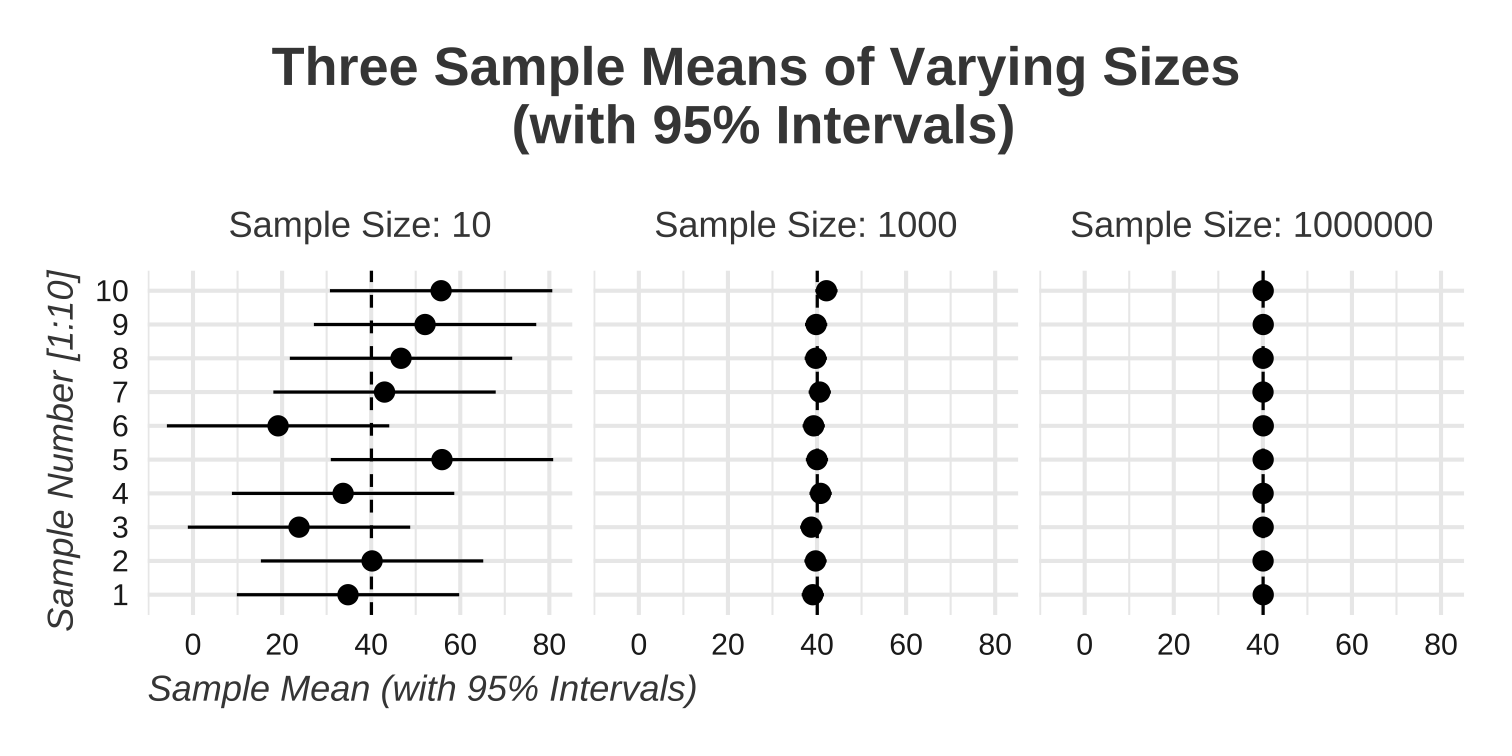
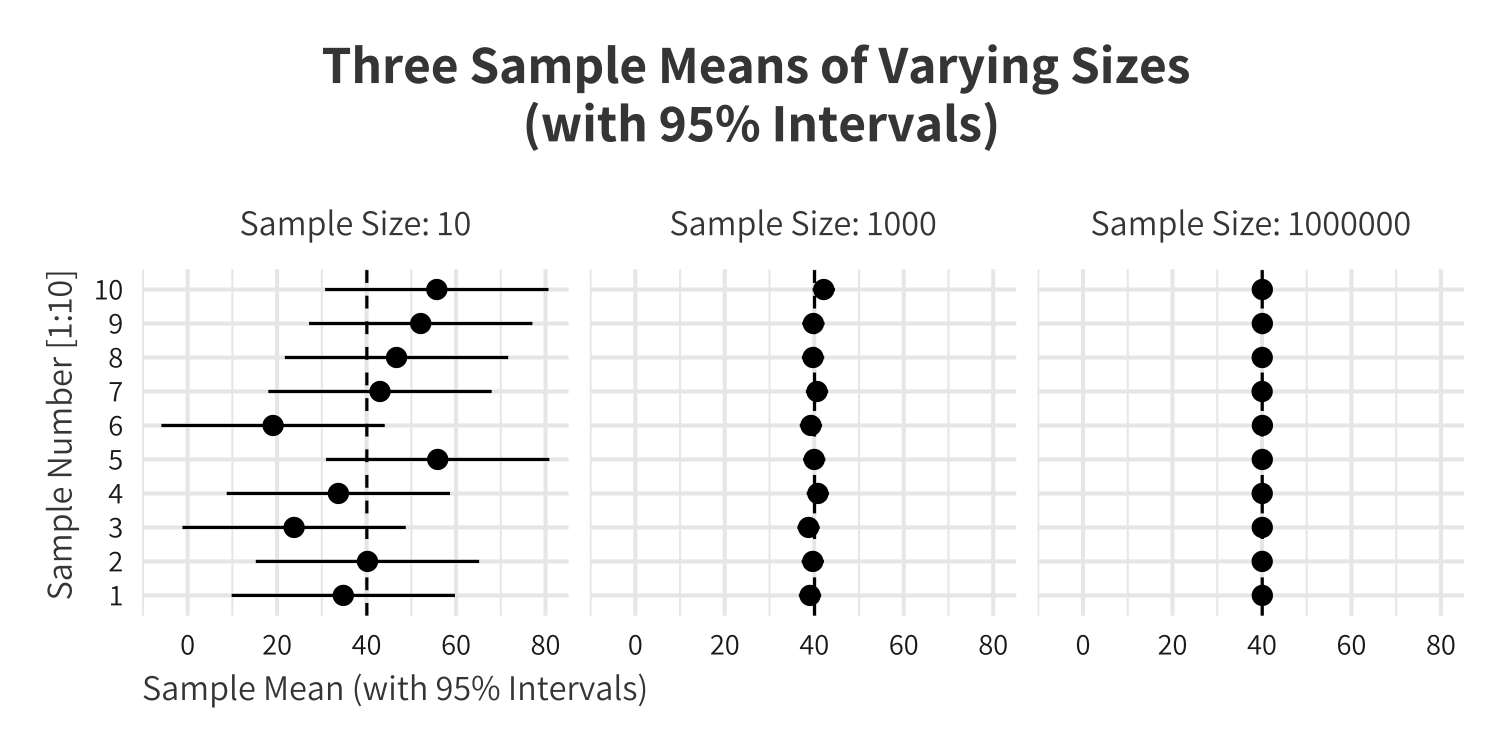
update font families

diff --git a/static/slides/Exam-2-Review/exam-2.html b/static/slides/Exam-2-Review/exam-2.html
@@ -778,6 +778,23 @@ The problem is that the confidence interval is us saying that 95% of the time we
 
 ---
 
+---
+
+
+
+&lt;img src="figs/unnamed-chunk-4-1.png" width="100%" style="display: block; margin: auto;" /&gt;
+
+
+
+
+
+
+
+???
+
+Remember this does not buy us a good sample. If the sample is drawn badly than this does nothing to affect our confidence intervals. If we draw a bad sample with over a million respondents then our confidence intervals will still look the same but just be tighter
+
+---
 
 
 
@@ -822,12 +839,16 @@ R = P \times B - C(B	&gt; C)
 \end{align}`
 $$
 ???
-What does this tell us about the benefit of voting 
+What does this tell us about the benefit of voting?
+
+I am looking for what each letter represents 
 
 R- The reward you get from voting
 P- The probability that your vote matters
 B- The benefit you will directly receive if your candidate wins
 C- The cost of voting
+
+This is the basic formula some people like me would prefer to wrap P x B in parenthesis to ensure precendce but it works either way
 
 basically the costs will never outweight the benefits. So the rational thing should be to never vote 
 
@@ -852,7 +873,7 @@ D is equal to the amount of duty felt by an individual
 This  simply states that voting is rational because D will make the benefit out weigh the costs 
 
 
-Even if you get cute with pemdas this still works. 
+
 
 
 ---
@@ -864,7 +885,7 @@ class: center, middle
 
 $$
 `\begin{align}
-\text{R} = (\text{B}\times \text{P}) - \text{C}
+\text{R} = \text{B}\times \text{P} - \text{C}
 \end{align}`
 $$
 
@@ -977,15 +998,15 @@ class: center, middle
 
 
 ---
-## The Doctrines
-
-### The FCC Regulates Broadcast Media through Various Rules
+## Communication Stuff
 
 - Fairness Doctrine
 
 - Equal Time Rule
 
 - Net Neutrality
+
+- Section 230 
 
 ???
 Introduced by the FCC in 1949 and suspended in 1987
@@ -1015,6 +1036,17 @@ The F.C.C. says that the old rules are no longer necessary because the marketpla
 The idea that Internet Service Providers must treat all web traffic equally, and therefore may not be allowed to charge different rates or discriminate against different websites in any way, is known as net neutrality.
 
 so this website and amazon are to be treated equally by the internet service providers and they can't up charge you for going to high traffic websites. Under the Trump administration that 
+
+Section 230: Section 230 says that "No provider or user of an interactive computer service shall be treated as the publisher or speaker of any information provided by another information content provider
+
+
+So if the New York times slanders somebody and then puts it on their twitter, instagram, or twitter I can't then turn around and sue Meta or Twitter for slander as well. online intermediaries that host or republish speech are protected against a range of laws that might otherwise be used to hold them legally responsible for what others say and do. 
+
+
+
+
+
+
 ---
 
 
@@ -1035,69 +1067,6 @@ Framing you can kind of think of it as the how it is being covered
 
 ---
 
----
-class:center, middle
-# Appendix
-
----
-
-
-
-
----
-## Agenda Seeding? 
-### Wasow(2020)
-.pull-left[
-
-&lt;gsu-blockquote-red&gt;
-
-News organization still set public
-agendas but social movements, like any group seeking
-greater attention or publicity, attempt to entice media to
-prioritize their concerns. Southern civil rights protests,
-for example, were often planned for mornings so
-footage could be flown to New York in time to air
-nationally on the evening news 
-
-
-&lt;/gsu-blockquote-red&gt;
-
-]
-
---
-
-.pull-right[
-
-&lt;gsu-blockquote-blue&gt;
-
-Media attention, however, can be sympathetic or
-hostile. Even presented with similar facts, different
-reporters and news organizations often structure stories
-in systematically different ways
-&lt;/gsu-blockquote-blue&gt;
-
-]
-
-???
-There are lots of arguments about what shifts the needle in public opinion. In particular whether the public is affected more by elites or social movements. The role of one versus the other is the subject of a long debate and is sort of field specific. Political scientists point out that mass opinion and positions are often dominated by elites. However, social movements can pierce these asymmetries
-
-
-What is interesting in this model is that the strategic timing of these events to not only get maximum coverage but it allows activists to generate a state response that is then covered by the media. This affects not only coverage but the frames that are used. 
-
----
-
-
----
-layout: false
-
-
-&lt;img src="wasow_fig_1.png" width="80%" style="display: block; margin: auto;" /&gt;
-
-???
-The vertical lines denote presidential elections but the author put them on the exact date so they are slightly off kilter. 
-
-
----
     </textarea>
 <style data-target="print-only">@media screen {.remark-slide-container{display:block;}.remark-slide-scaler{box-shadow:none;}}</style>
 <script src="https://remarkjs.com/downloads/remark-latest.min.js"></script>
